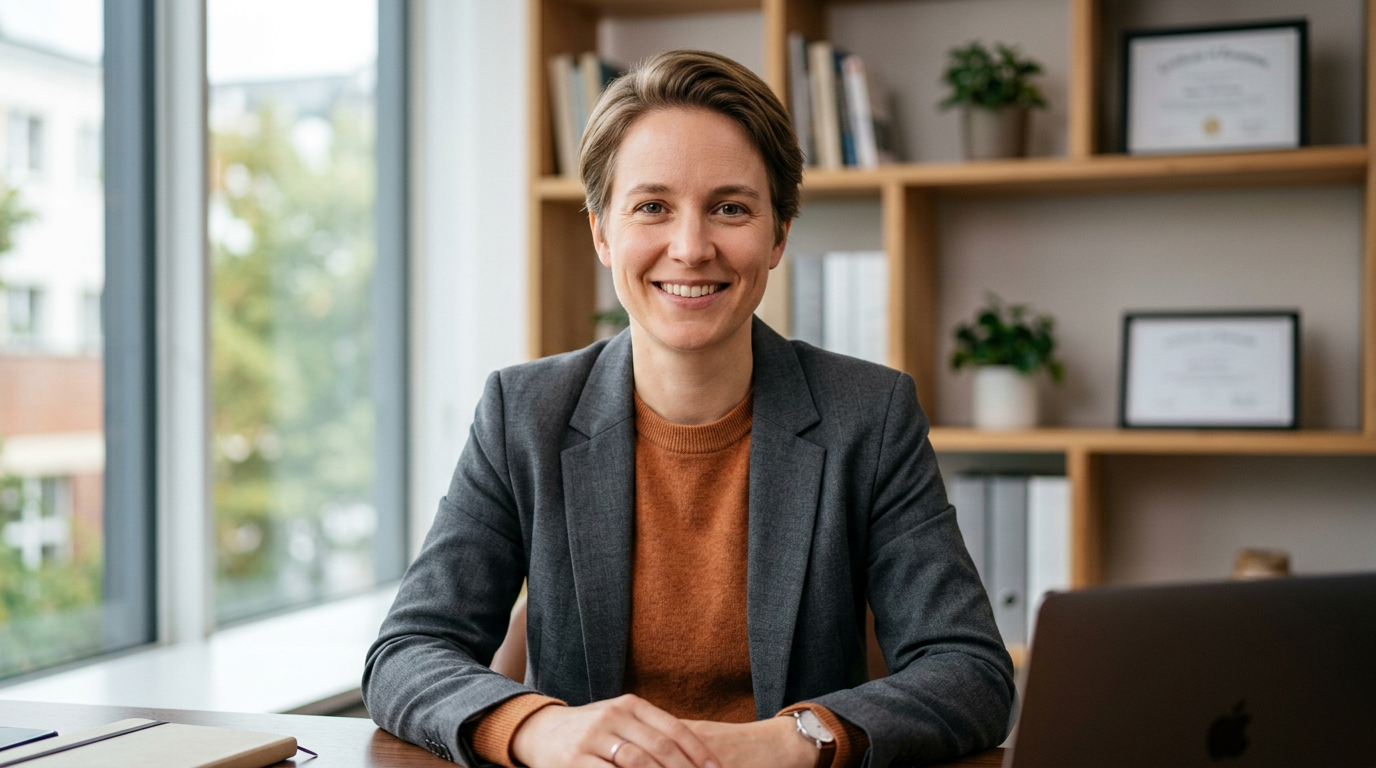
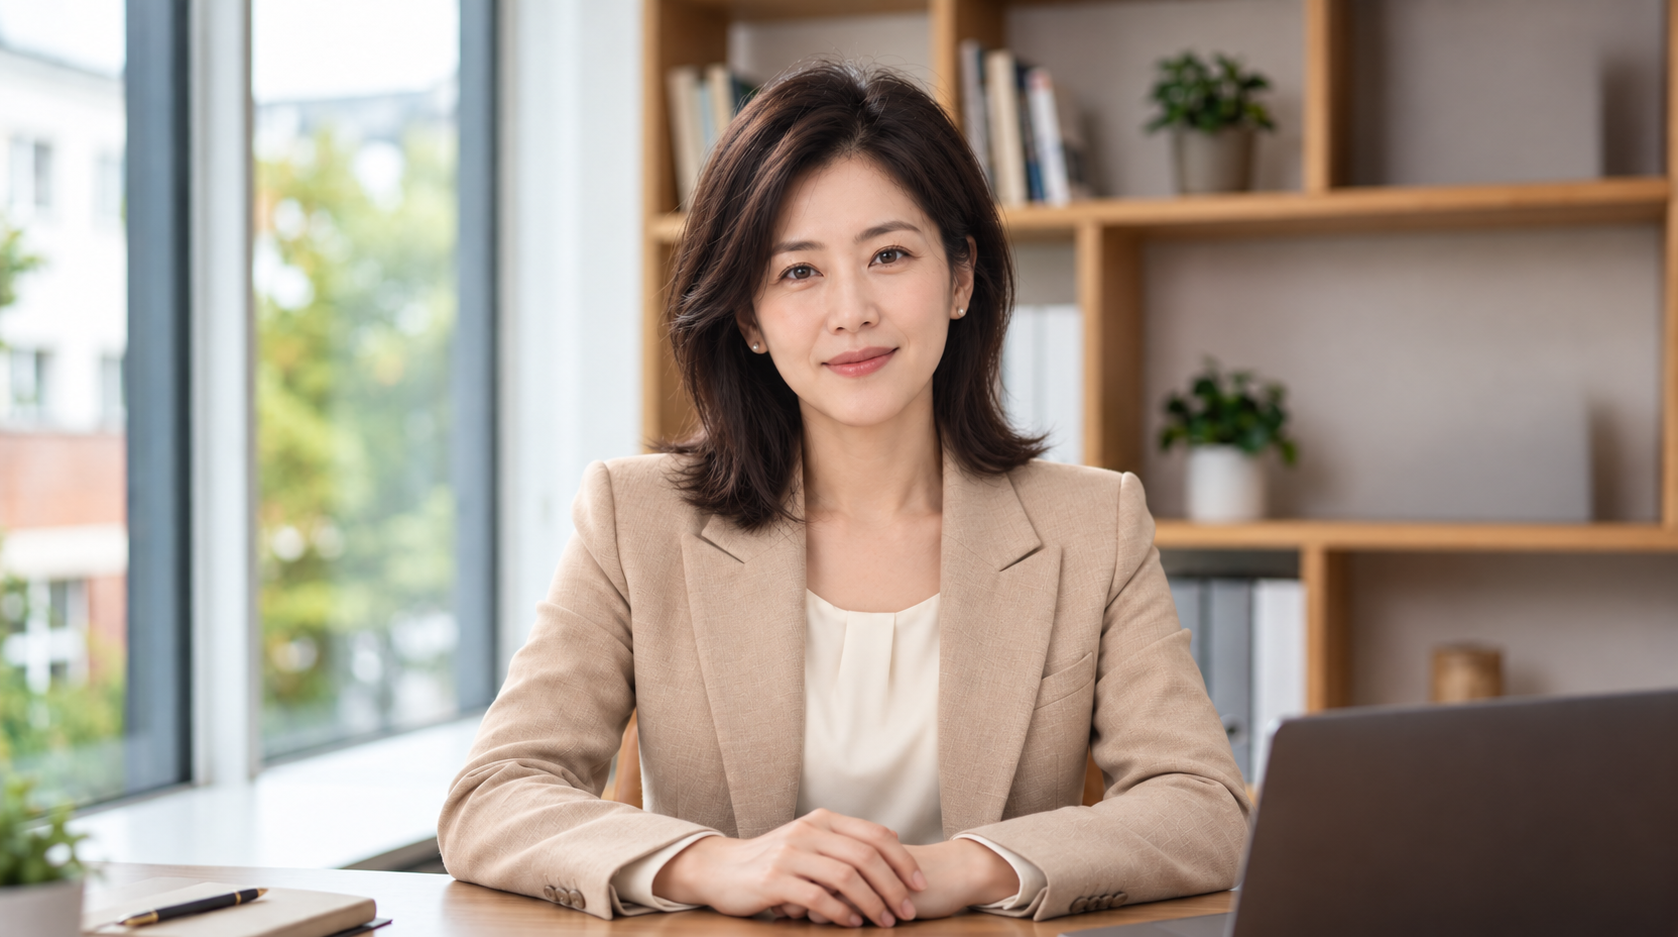
refactor(interview): use one interviewer portrait

diff --git a/frontend/src/components/ChatInterface.jsx b/frontend/src/components/ChatInterface.jsx
@@ -18,28 +18,10 @@ const BACKEND_URL = getBackendBaseUrl()
 const CHAT_REQUEST_TIMEOUT_MS = 45_000
 
 const PUBLIC_BASE_URL = String(import.meta.env.BASE_URL || '/').replace(/\/?$/, '/')
-const DEFAULT_INTERVIEWER_PORTRAIT = `${PUBLIC_BASE_URL}images/interviewer-hr.png`
-const CHINESE_INTERVIEWER_PORTRAITS = Object.freeze({
-  balanced: `${PUBLIC_BASE_URL}images/interviewers/chinese-balanced.png`,
-  supportive: `${PUBLIC_BASE_URL}images/interviewers/chinese-supportive.png`,
-  demanding: `${PUBLIC_BASE_URL}images/interviewers/chinese-demanding.png`,
-  analytical: `${PUBLIC_BASE_URL}images/interviewers/chinese-analytical.png`,
-})
+const INTERVIEWER_PORTRAIT = `${PUBLIC_BASE_URL}images/interviewer-hr.png`
 
-function isChineseInterviewLanguage(language) {
-  const normalized = String(language || '').trim().toLowerCase()
-  return normalized === 'chinese'
-    || normalized === '中文'
-    || normalized === '普通话'
-    || normalized === 'mandarin'
-    || normalized === 'zh'
-    || normalized.startsWith('zh-')
-}
-
-export function getInterviewerPortraitSrc(language, interviewerStyle) {
-  if (!isChineseInterviewLanguage(language)) return DEFAULT_INTERVIEWER_PORTRAIT
-  return CHINESE_INTERVIEWER_PORTRAITS[interviewerStyle]
-    || CHINESE_INTERVIEWER_PORTRAITS.balanced
+export function getInterviewerPortraitSrc() {
+  return INTERVIEWER_PORTRAIT
 }
 
 function newRequestId() {
@@ -1285,7 +1267,7 @@ const ChatInterface = forwardRef(function ChatInterface({
         ? t('interview.digitalStateThinking')
         : t('interview.digitalStateIdle')
 
-  const interviewerPortraitSrc = getInterviewerPortraitSrc(language, interviewerStyle)
+  const interviewerPortraitSrc = getInterviewerPortraitSrc()
 
   const liveConnectionOk = nativeLiveEnabled ? live.connected : !initError
 
